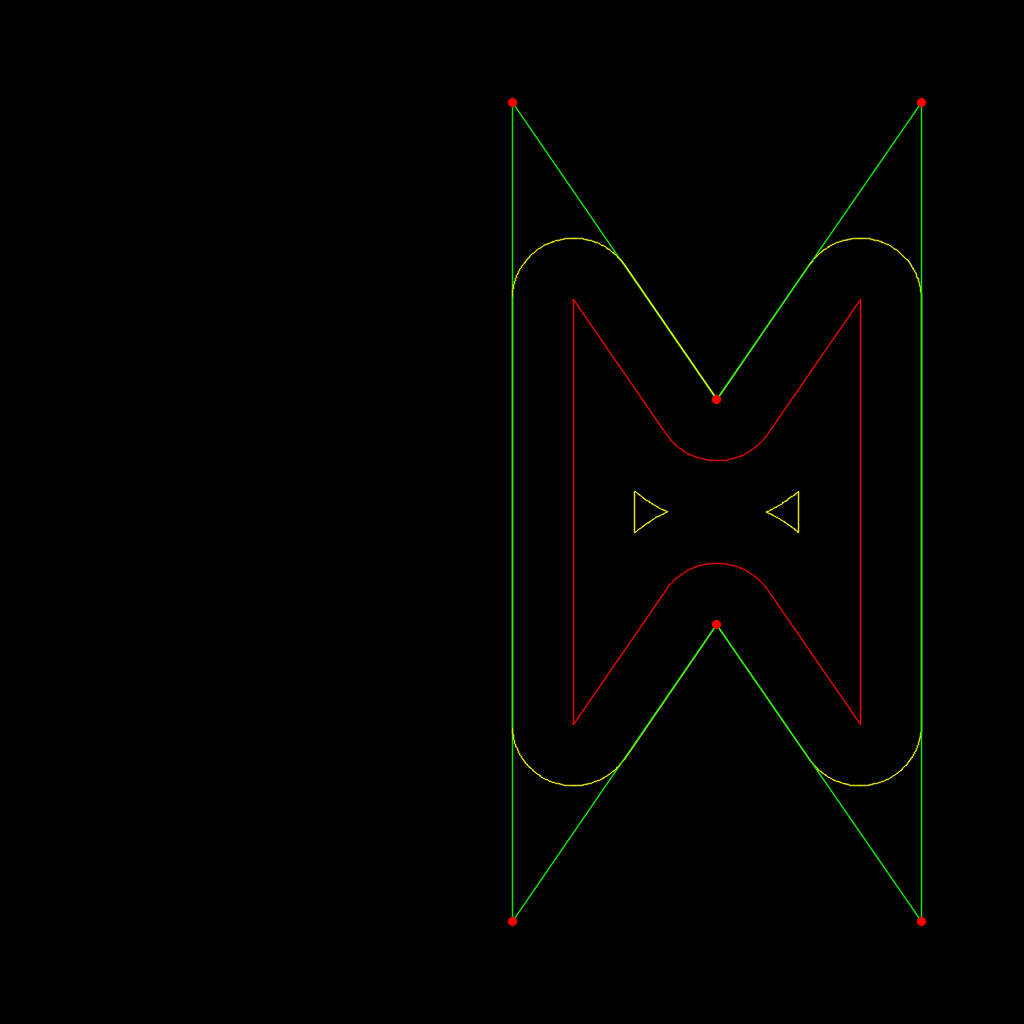
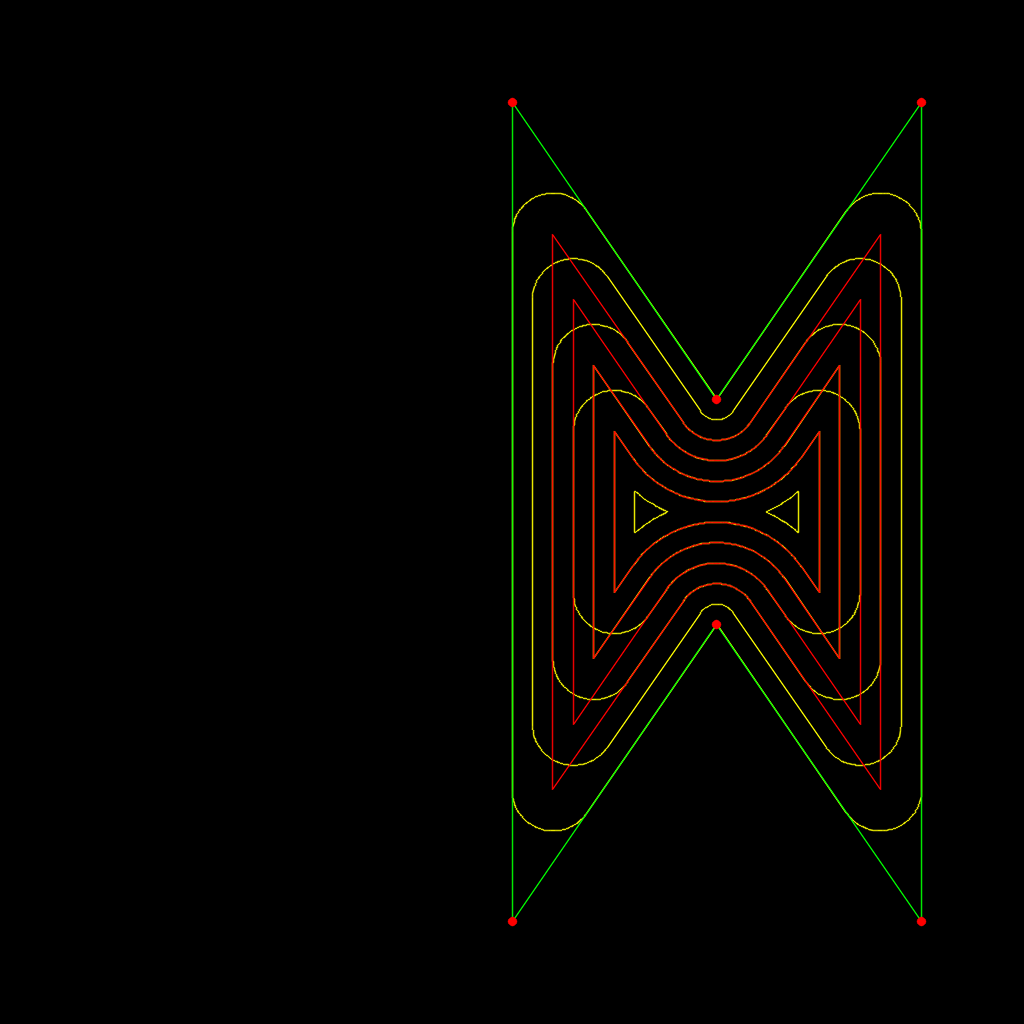
toolpath with offsets

diff --git a/src/main/kotlin/Constraint.kt b/src/main/kotlin/Constraint.kt
@@ -32,7 +32,7 @@ class ProxyValue(var proxy: Value) : Value() {
 }
 
 
-interface Element
+open class Element(var type: LineType = LineType.Normal)
 
 interface AbstractPoint{
     val x: Value
@@ -61,7 +61,7 @@ class MinusPoint(left: Point, right: Point) : AbstractPoint{
     override val y: Value = MinusValue(left.y, right.y)
 }
 
-data class Point(override val x: Value, override val y: Value) : AbstractPoint, Element {
+class Point(override val x: Value, override val y: Value, type: LineType = LineType.Normal) : Element(type), AbstractPoint {
     fun toVector(): Vector {
         return Vector(x.value, y.value)
     }
@@ -76,13 +76,13 @@ data class Point(override val x: Value, override val y: Value) : AbstractPoint, 
 
 }
 
-enum class LineType{
-    Normal, Construction, ToolContour
+enum class LineType(val prio: Int){
+    Normal(2), Construction(3), ToolContour(1)
 }
 
-data class Line(val a: Point, val b: Point, val type: LineType = LineType.Normal) : Element
+class Line(val a: Point, val b: Point, type: LineType = LineType.Normal) : Element(type)
 
-data class Circle(val center: Point, val rad: Value, val start: Value? = null, val end: Value? = null) : Element
+class Circle(val center: Point, val rad: Value, val start: Value? = null, val end: Value? = null) : Element()
 
 //class Arc(val center: Point, val rad: Value, val start: Value, val end: Value) : Element
 

diff --git a/src/main/kotlin/main.kt b/src/main/kotlin/main.kt
@@ -229,10 +229,22 @@ fun main(args: Array<String>) {
             point(0.0, 2.0),
         )
 
-        val paths = offsetPolygons(elementsToPath(poly), -0.3)
+        val shaftRadius = 0.2
+        val offset = 0.1
 
-        offsetPolygons(paths, 0.3, true)
-        offsetPolygons(paths, -0.3, true)
+        var paths = elementsToPath(poly)
+        var i = 0
+        while(true){
+            val toolPath = offsetPolygons(paths, -( shaftRadius + i * offset))
+
+            val innerPath = offsetPolygons(toolPath, -shaftRadius, true)
+
+            offsetPolygons(toolPath, shaftRadius, true)
+            if(innerPath.isEmpty()){
+                break
+            }
+            i++
+        }
     }
 
 

diff --git a/src/main/kotlin/Sketch.kt b/src/main/kotlin/Sketch.kt
@@ -1,7 +1,14 @@
+import java.util.*
+import kotlin.collections.ArrayList
+import kotlin.collections.HashSet
+
 class Sketch {
     val params = HashSet<Value>()
     val constraints = HashSet<Constraint>()
-    val elements = HashSet<Element>()
+    val elements = TreeSet<Element>(){  a,b  ->
+        val comp = a.type.prio.compareTo(b.type.prio)
+        if(comp == 0) 1 else comp
+    }
 
     fun createParameter(value: Double = 0.0): ProxyValue {
         val param = Parameter(value)
